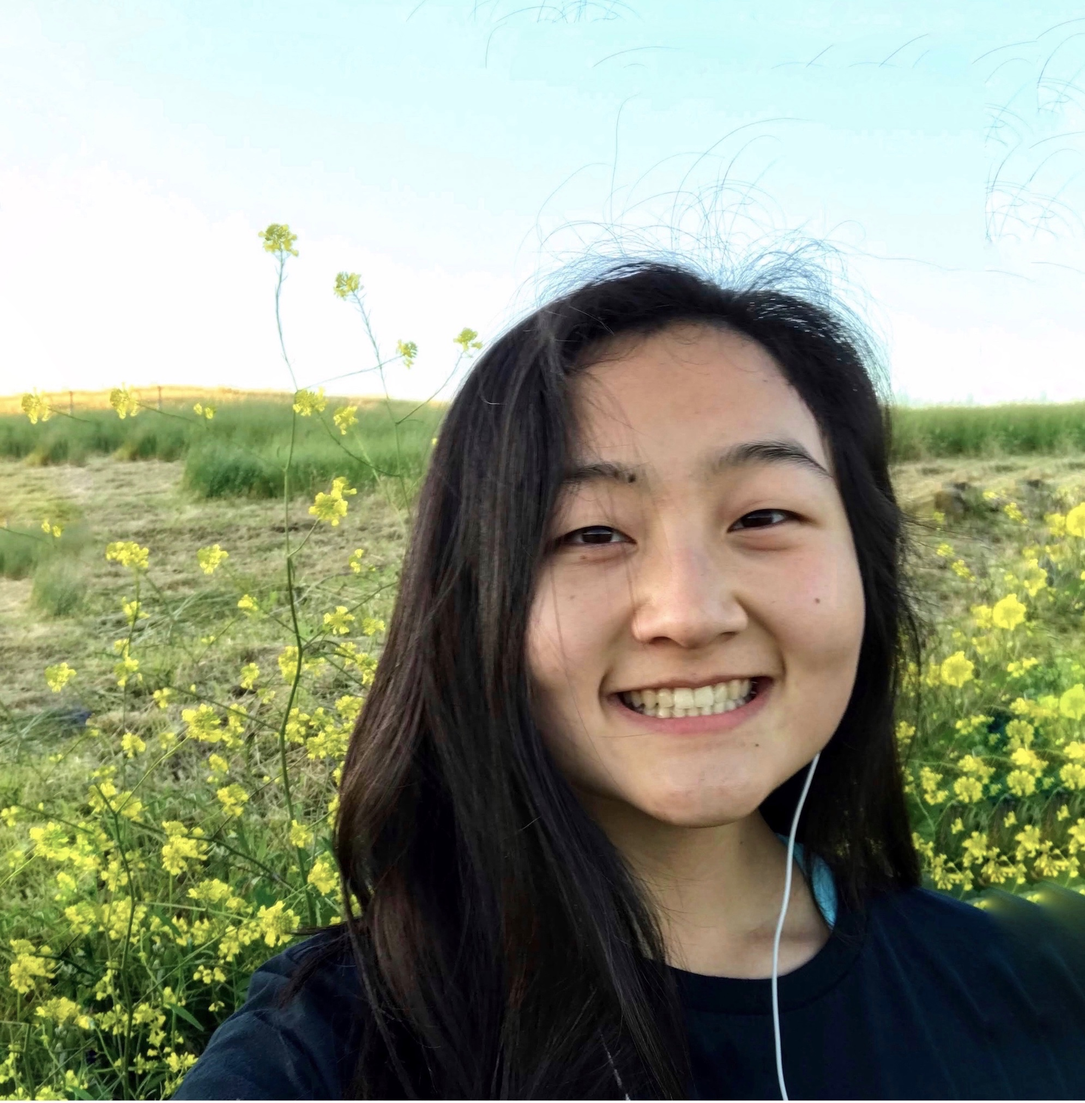
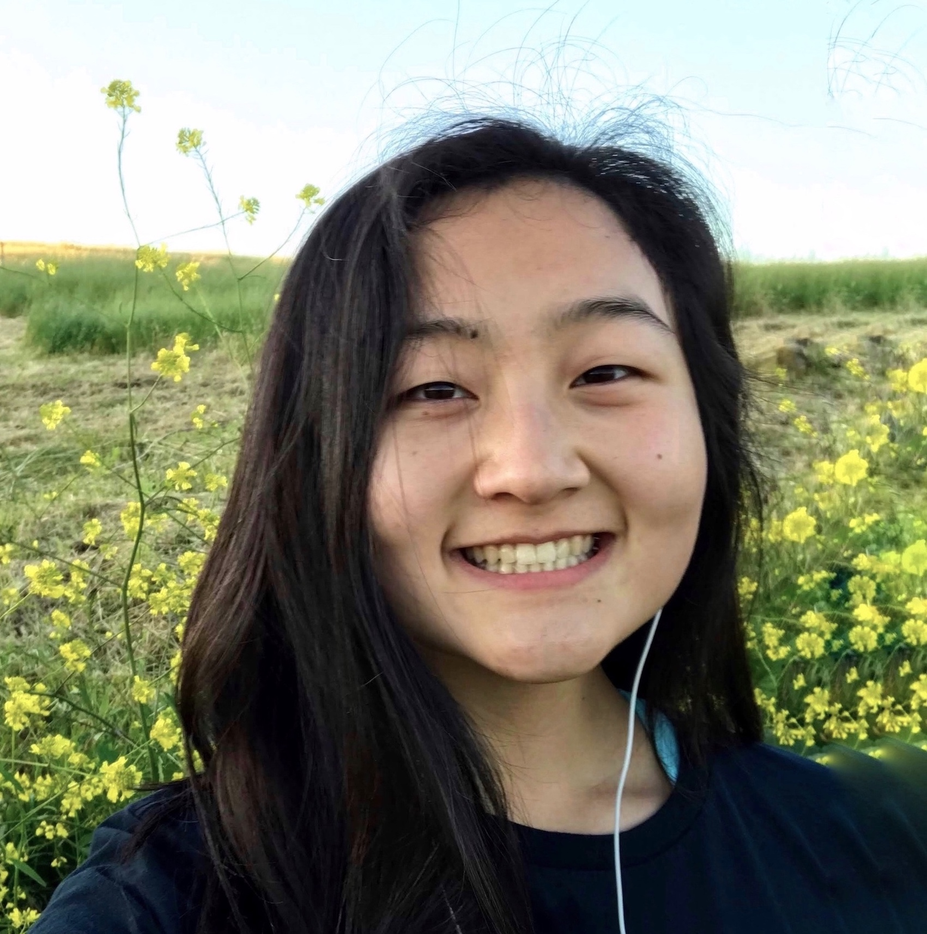
major reformatting to dolby

diff --git a/style.css b/style.css
@@ -111,6 +111,8 @@ TABLE OF CONTENT
   --ui-layout-grid     : 3.625rem;
   --ui-layout-margin     : 4rem;
   --ui-layout-gutter   :1rem;
+  --ui-sidenav-width: 14rem;
+  --ui-pfp-width: 200px;
 
   /* GAP */
   
@@ -149,9 +151,15 @@ body {
   font-size: var(--ui-typography-p);
   font-weight: 300;
   line-height: var(--ui-typography-p-leading);
-  margin: 0 auto;
   text-rendering: optimizeLegibility;
   -webkit-font-smoothing: antialiased;
+  margin-left:  var(--ui-sidenav-width); /* Same as the width of the sidenav */
+  padding: 0px 10px;
+}
+
+@media screen and (max-height: 450px) {
+  .sidenav {padding-top: 15px;}
+  .sidenav a {font-size: 18px;}
 }
 
 /*--------------------------------------------------------------
@@ -165,6 +173,7 @@ body {
   margin-bottom : 1.5rem;
   margin-right: 2rem;
   letter-spacing: .3rem; 
+  animation-delay: 2s;
   animation: 
     typing 1.6s steps(14, end),
     blink-caret 1s none infinite alternate;
@@ -212,7 +221,6 @@ h4 { color: var(--ui-color-typography-heading); }
 
 h1 {
   font-size: var(--ui-typography-h1);
-  font-family: 'Major Mono Display', monospace;
   line-height: var(--ui-typography-h1-leading);
 }
 
@@ -458,23 +466,39 @@ div label[for=ui-component-toggle__yearly] {
 |
 --------------------------------------------------------------*/
 
-.ui-section-header {
-  padding-bottom: 1.25rem;
-  padding-top: 1.25rem;
+/* SIDENAV */
+.sidenav {
+  height: 100%;
+  width: var(--ui-sidenav-width);
+  position: fixed;
+  z-index: 1;
+  top: 0;
+  left: 0;
+  background-color: var(--ui-color-background-primary);
+  overflow-x: hidden;
+  padding-top: 20px;
+  border-right: 2px solid var(--ui-color-n-100) ;
 }
 
+.sidenav a {
+  padding: 6px 8px 6px 16px;
+  text-decoration: none;
+  font-size: 25px;
+  color: #818181;
+  display: block;
+}
 
-.ui-section-header__layout { justify-content: left; }
+.sidenav a:hover {
+  color: #f1f1f1;
+}
 
-/* LOGO */
-
-.ui-section-header--logo { z-index: 1; }
+.sidenav a:focus {
+  color: red;
+}
 
 /* HAMBURGER */
 
-#ui-section-header--menu-id { display: none; }
-
-.ui-section-header--menu-icon {
+.ui-sidenav--menu-icon {
   cursor: pointer;
   display: block;
   height: 1.125rem;
@@ -483,31 +507,6 @@ div label[for=ui-component-toggle__yearly] {
   position: relative;
   width: 1.125rem;
   z-index: 1;
-}
-
-.ui-section-header--menu-icon::before,
-.ui-section-header--menu-icon::after {
-  background: var(--ui-color-brand);
-  content: "";
-  height: .125rem;
-  left: 0;
-  position: absolute;
-  transition: all 250ms cubic-bezier(.785, .135, .15, .86);
-  width: 1.125rem;
-}
-
-.ui-section-header--menu-icon::before { top: .3125rem; }
-
-.ui-section-header--menu-icon::after { top: .6875rem; }
-
-#ui-section-header--menu-id:checked ~
-.ui-section-header--menu-icon::before {
-  transform: translateY(3px) rotate(135deg);
-}
-
-#ui-section-header--menu-id:checked ~
-.ui-section-header--menu-icon::after {
-  transform: translateY(-3px) rotate(45deg);
 }
 
 /* MENU */
@@ -546,13 +545,14 @@ div label[for=ui-component-toggle__yearly] {
 |
 --------------------------------------------------------------*/
 
-.ui-section-hero {
+.ui-section-hero__layout {
   padding-bottom: 5rem;
   padding-top: 2rem;
   text-align: center;
+  row-gap: var(--ui-gap-hero);
+  margin: auto;
 }
 
-.ui-section-hero__layout { row-gap: var(--ui-gap-hero); }
 
 /*--------------------------------------------------------------
 |
@@ -573,6 +573,17 @@ div label[for=ui-component-toggle__yearly] {
 .ui-section-customer--logo-str { height: 1.75rem; }
   
 .ui-section-customer--logo-bhn { height: 1.375rem; }
+
+/*--------------------------------------------------------------
+|
+| 7.35 ABOUT ME
+|
+--------------------------------------------------------------*/
+
+.ui-section-about-me__layout{
+  padding-top: 5rem;
+  padding-bottom: 5rem;
+  row-gap: var(--ui-gap-card); }
 
 /*--------------------------------------------------------------
 |
@@ -800,8 +811,14 @@ div label[for=ui-component-toggle__yearly] {
   IMAGE & TITLE TEXT 
   ------------------------------------------------------------*/
 
-  .ui-image-half-left {
-    padding: var(--ui-layout-gutter);
+  .ui-image-pfp {
+    margin: var(--ui-layout-gutter);
+    display: block;
+    margin-left: auto;
+    margin-right: auto;
+    height: var(--ui-pfp-width);
+    width: var(--ui-pfp-width);
+    border-radius: 100%;
   }
 
   .ui-text-half-right{

diff --git a/index.html b/index.html
@@ -33,55 +33,43 @@
 </head>
 
 <body>
-  <header role="banner" class="ui-section-header">
-    <div class="ui-layout-container">
-      <div class="ui-section-header__layout ui-layout-flex">
-        <!-- LOGO
-        <a href="#" role="link" aria-label="#" class="ui-section-header--logo">
-          <svg viewBox="0 0 18 18" height="18" width="18" role="img" aria-label="#">
-          </svg>
-        </a> -->
-        <!-- HAMBURGER -->
-        <input type="checkbox" id="ui-section-header--menu-id">
-        <label for="ui-section-header--menu-id" class="ui-section-header--menu-icon"></label>
-        <!-- MENU -->
-        <nav role="navigation" class="ui-section-header--nav ui-layout-flex">
-          <a href="#" role="link" aria-label="#" class="ui-section-header--nav-link">Resume</a>
-          <a href="#projects" role="link" aria-label="#" class="ui-section-header--nav-link">Projects</a>
-          <a href="about.html" role="link" aria-label="#" class="ui-section-header--nav-link">About</a>
-        </nav>
-      </div>
-    </div>
+  <header class="sidenav">
+    <a href="#about" class="ui-sidenav--menu-icon">Carolyn</a>
+    <a href="#about">About</a>
+    <a href="#projects">Projects</a>
+    <a href="#contact">Contact</a>
   </header>
+
   <main role="main">
-    <section id="home" class="ui-section-hero">
-      <div class="ui-layout-container">
-        <div class="ui-section-hero__layout ui-layout-grid ui-layout-grid-2">
+    <section id="home" class="ui-section-hero__layout">
+      <!-- IMAGE -->
+      <img src="image/carolyn_wang.jpg" loading="lazy" alt="#" class="ui-image-pfp">
 
-          <!-- IMAGE -->
-          <img src="image/carolyn_wang.jpeg" loading="lazy" alt="#" class="ui-image-half-left">
+      <!-- COPYWRITING -->
+      <!-- <div class="typewriter">
+        <h1>carolyn wang</h1>
+      </div> -->
+      <h1>Carolyn Wang</h1>
 
-          <!-- COPYWRITING -->
-          <div class="ui-text-half-right">
-            <div class="typewriter css-typing">
-              <h1>carolyn wang</h1>
-            </div>
-            <div class="short-bio">
-              <p class="ui-text-intro">Hi! It's nice to meet you. My name is Carolyn and I'm a first year student at UC
-                Berkeley.</p>
-              <p class="ui-text-intro">I'm currently exploring tech, social good, and public policy. </p>
-            </div>
-            <!-- CTA -->
-            <div class="ui-component-cta ui-layout-flex">
-              <a href="about.html" role="link" aria-label="#"
-                class="ui-component-button ui-component-button-normal ui-component-button-primary">More about me</a>
-              <!-- <p class="ui-text-note">"oh no"</p> -->
-            </div>
-          </div>
-
-        </div>
+      <!-- CTA -->
+      <div class="ui-component-cta ui-layout-flex">
+        <a href="about.html" role="link" aria-label="#"
+          class="ui-component-button ui-component-button-normal ui-component-button-primary">More about me</a>
+        <!-- <p class="ui-text-note">"oh no"</p> -->
       </div>
     </section>
+
+    <section id="about-me" class="ui-section-about-me">
+      <div class="ui-layout-container">
+        <h2>About-Me</h2>
+    <div class="short-bio">
+      <p class="ui-text-intro">Hi! It's nice to meet you. My name is Carolyn and I'm a second-year student studying Computer Science & Political Economy at Berkeley. 
+      <p class="ui-text-intro">I'm currently exploring tech, social good, and public policy. </p>
+    </div>
+
+  </div>
+    </h2>
+    </section>  
 
     <section id="projects" class="ui-section-projects">
       <h2 style="text-align:center;">Projects</h2>
@@ -276,7 +264,7 @@
         <a href="https://github.com/carolyn-wang" target="_blank" role="link" aria-label="#">
           <img src="image/git_icon.png" height="22" width="22" />
         </a>
-        <a href="https://www.linkedin.com/in/carolynw318/" role="link" target="_blank" aria-label="#">
+        <a href="https://www.linkedin.com/in/carolyn-w/" role="link" target="_blank" aria-label="#">
           <img src="image/linkedin.png" height="22" width="22" />
         </a>
         <a href="mailto:carolynw@berkeley.edu" target="_blank" role="link" aria-label="#">

diff --git a/about.html b/about.html
@@ -55,8 +55,6 @@
       </header>
 
 
-
-
     <footer role="contentinfo" class="ui-section-footer">
         <div class="ui-layout-container">
             <div class="ui-section-footer__layout ui-layout-flex">
